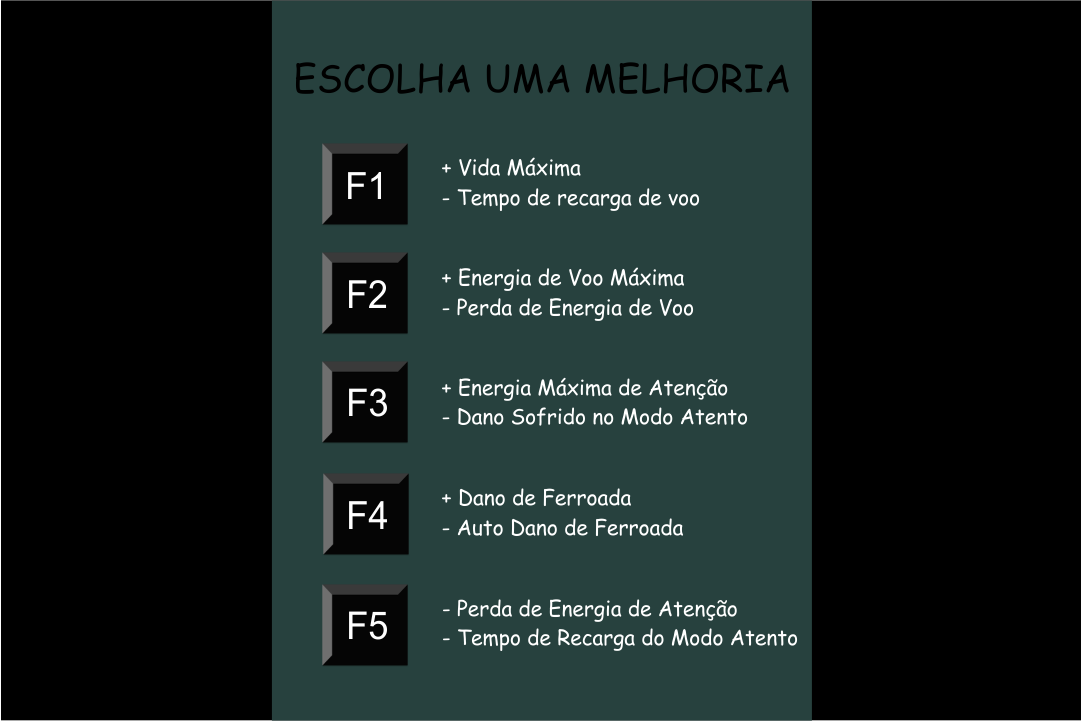
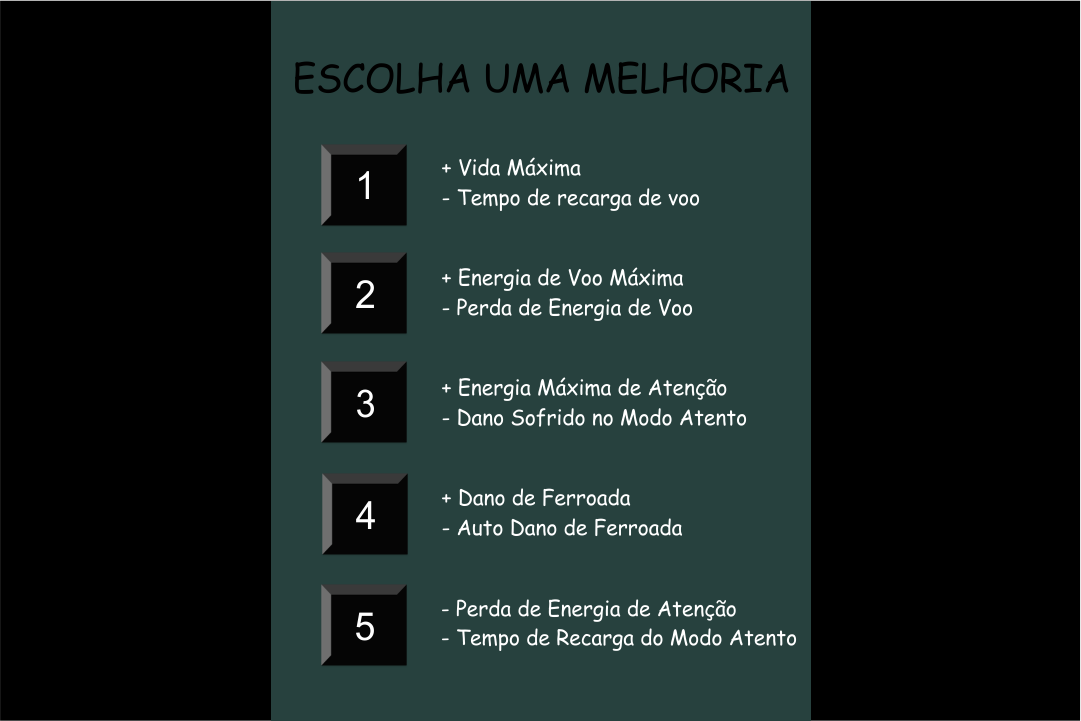
Habilidades 1-5

diff --git a/core/src/com/rpbee/Screens/PlayScreen.java b/core/src/com/rpbee/Screens/PlayScreen.java
@@ -217,29 +217,29 @@ public class PlayScreen implements Screen {
 
     public void handleInput(float delta){
         if(isPause){
-            if(Gdx.input.isKeyJustPressed(Input.Keys.F1)){
+            if(Gdx.input.isKeyJustPressed(Input.Keys.NUM_1)){
                 player.setMaxHealth(player.getMaxHealth()+5);
                 System.out.println("Old recharge fly amount: "+player.getRechargeFlyAmount());
                 player.setRechargeFlyAmount(player.getRechargeFlyAmount()+0.05f);
                 System.out.println("New recharge fly amount: "+player.getRechargeFlyAmount());
                 this.resume();
             }
-            if(Gdx.input.isKeyJustPressed(Input.Keys.F2)){
+            if(Gdx.input.isKeyJustPressed(Input.Keys.NUM_2)){
                 player.setMaxFlyEnergy(player.getMaxFlyEnergy()+5);
                 player.setFlyEnergyLoss(player.getFlyEnergyLoss()+0.01f);
                 this.resume();
             }
-            if(Gdx.input.isKeyJustPressed(Input.Keys.F3)){
+            if(Gdx.input.isKeyJustPressed(Input.Keys.NUM_3)){
                 player.setMaxWatchfulEnergy(player.getMaxWatchfulEnergy()+5);
                 player.setWatchfulDamageLoss(player.getWatchfulDamageLoss()+0.05f);
                 this.resume();
             }
-            if(Gdx.input.isKeyJustPressed(Input.Keys.F4)){
+            if(Gdx.input.isKeyJustPressed(Input.Keys.NUM_4)){
                 player.setBeeStingDamage(player.getBeeStingDamage()-5);
                 player.setStingAutoHit(player.getStingAutoHit()+1);
                 this.resume();
             }
-            if(Gdx.input.isKeyJustPressed(Input.Keys.F5)){
+            if(Gdx.input.isKeyJustPressed(Input.Keys.NUM_5)){
                 player.setWatchfulEnergyLoss(player.getWatchfulEnergyLoss()+0.05f);
                 player.setRechargeWatchfulAmount(player.getRechargeWatchfulAmount()+0.05f);
                 this.resume();
